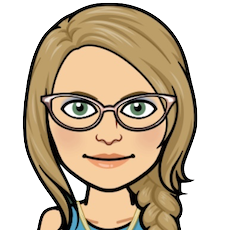
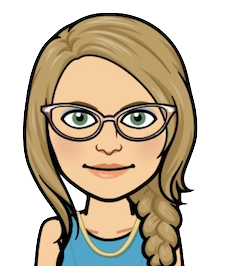
Sidebar Dareth implemented

diff --git a/app/assets/stylesheets/components/_sidebar.scss b/app/assets/stylesheets/components/_sidebar.scss
@@ -1,0 +1,76 @@
+.bs-canvas-overlay {
+  opacity: 0;
+  z-index: -1;
+}
+
+.bs-canvas-overlay.show {
+  opacity: 0.85;
+  z-index: 1100;
+}
+
+.bs-canvas-overlay, .bs-canvas {
+  transition: $transition;
+}
+
+.bs-canvas {
+  top: 0;
+  z-index: 1110;
+  overflow-x: hidden;
+  overflow-y: auto;
+  width: 230px;
+  background: rgba($light-gray, .95) asset-url('bg_flat-pattern.jpg');;
+
+  h4 {
+    font-size: 1.5rem;
+  }
+
+  .dropdown-item {
+    .fas.text-primary {
+      @extend .text-primary;
+    }
+
+    .fas {
+      color: $mygrey;
+      @extend .mr-1;
+      width: 20px;
+    }
+  }
+}
+
+.bs-canvas-left {
+  left: 0;
+  margin-left: -330px;
+}
+
+.bs-canvas-right {
+  right: 0;
+  margin-right: -330px;
+}
+
+.bs-canvas-header {
+  @extend .d-flex;
+  @extend .justify-content-between;
+  align-items: center;
+  background: rgba($light-gray, .5);
+
+  * {
+    margin: 0;
+    transition: $transition;
+  }
+  .fas {
+    @extend .text-muted;
+  }
+}
+
+
+.dropdown-item {
+  transition: $transition;
+  transition-duration: .3s;
+}
+
+.dropdown-item:hover, .dropdown-item:focus {
+  &, a, a .fas {
+    background: rgba($primary, .75);
+    color: $white !important;
+  }
+}

diff --git a/app/assets/stylesheets/config/_colors.scss b/app/assets/stylesheets/config/_colors.scss
@@ -13,4 +13,5 @@ $white-alt: #F8F9FA;
 $night: #1A2732;
 $quick-change: white; // was rgba($light-gray, .95)
 $theme: #e91e63;
+$mygrey: #4a4a4a;
 

diff --git a/db/seeds.rb b/db/seeds.rb
@@ -10,14 +10,13 @@ separator = "-------------------------------------------------"
 
 puts separator
 
-puts " 1. 👤 Creating 4 fake users... "
+puts " 1. 👤 Creating 3 fake users... "
 pswd = 'sophia'
 # Create team accounts
 team = [
-  {first_name: 'Katia', last_name: 'Obedina', email: 'evobedi@gmail.com', password: 'michelle'},
-  {first_name: 'Michelle', last_name: 'M\'Baga', email: 'michelle@gmail.com', password: 'michelle'},
-  {first_name: 'Pierre', last_name: 'M\'Baga', email: 'pierrembaga@gmail.com', password: 'michelle'},
-  {first_name: 'Coach', last_name: 'Destinees', email: 'coachdestinees@gmail.com', password: 'michelle'}
+  {first_name: 'Pierre', last_name: 'M\'Baga', email: 'pierrembaga@gmail.com', password: 'michelle', facebook_picture_url: 'https://scontent-lhr3-1.xx.fbcdn.net/v/t1.0-1/p320x320/11010628_840617416027523_944689620296317714_n.jpg?_nc_cat=109&_nc_oc=AQl2Uc1KDRtRQ_9ey9grtiwa6yY8-24Le17gNr2NCZY1xb99Zw1Obuwpnp8DTzd_I0rK4BFntbR_U2PeK3IASwHi&_nc_ht=scontent-lhr3-1.xx&oh=f59192c44c8c6a2694b7a0e5e35f772f&oe=5E07F0DD'},
+  {first_name: 'Katia', last_name: 'Obedina', email: 'evobedi@gmail.com', password: 'michelle', facebook_picture_url: 'https://scontent-lhr3-1.xx.fbcdn.net/v/t1.0-1/p320x320/11755846_10206533557398425_451939157834557279_n.jpg?_nc_cat=102&_nc_oc=AQkGUgjCCru47_3By5t3nOXhnl9Y_n5eCbb2GbIlCzdI5KYeGYluOYskwXTf4VTeiF0PdwgLBbcEuAJD_ZMi2Cji&_nc_ht=scontent-lhr3-1.xx&oh=296c750d7ed46f57842b90b4e0462a9a&oe=5E078F07'},
+  {first_name: 'Coach', last_name: 'Destinees', email: 'coachdestinees@gmail.com', password: 'michelle', facebook_picture_url: 'https://images2.storyjumper.com/transcoder.png?trim&id=3b-rvvfynss3m-5a14ks6cd&maxw=512&maxh=512'}
 ]
 team.each do |teamate|
   User.create!(teamate)

diff --git a/db/schema.rb b/db/schema.rb
@@ -10,7 +10,7 @@
 #
 # It's strongly recommended that you check this file into your version control system.
 
-ActiveRecord::Schema.define(version: 2019_08_11_161701) do
+ActiveRecord::Schema.define(version: 2019_09_18_171715) do
 
   # These are extensions that must be enabled in order to support this database
   enable_extension "plpgsql"
@@ -65,6 +65,8 @@ ActiveRecord::Schema.define(version: 2019_08_11_161701) do
     t.datetime "updated_at", null: false
     t.string "first_name"
     t.string "last_name"
+    t.string "facebook_picture_url"
+    t.string "avatar_url"
     t.index ["email"], name: "index_users_on_email", unique: true
     t.index ["reset_password_token"], name: "index_users_on_reset_password_token", unique: true
   end

diff --git a/app/models/user.rb b/app/models/user.rb
@@ -4,4 +4,17 @@ class User < ApplicationRecord
   devise :database_authenticatable, :registerable,
          :recoverable, :rememberable, :validatable
   has_many :flats, dependent: :destroy
+
+
+
+  def avatar
+      if !avatar_url.nil?
+        avatar_url
+      elsif !facebook_picture_url.nil?
+        facebook_picture_url
+      else
+        "http://placehold.it/90x90"
+      end
+  end
+
 end

diff --git a/db/migrate/20190918170446_add_photo_to_users.rb b/db/migrate/20190918170446_add_photo_to_users.rb
@@ -1,0 +1,5 @@
+class AddPhotoToUsers < ActiveRecord::Migration[5.2]
+  def change
+    add_column :users, :facebook_picture_url, :string
+  end
+end

diff --git a/db/migrate/20190918171715_add_avatar_to_users.rb b/db/migrate/20190918171715_add_avatar_to_users.rb
@@ -1,0 +1,5 @@
+class AddAvatarToUsers < ActiveRecord::Migration[5.2]
+  def change
+    add_column :users, :avatar_url, :string
+  end
+end
